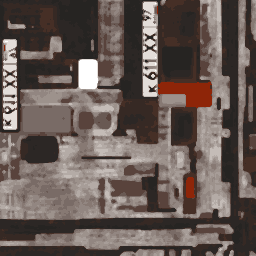
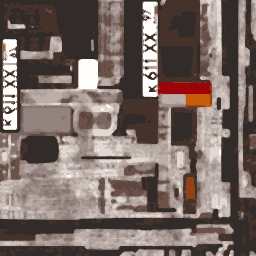
Проба машин: ярче, как машины города — краска без приглушения, складки не темнее 0,8, детали светлее, глубина города на машине втрое слабее, износ потока мягче; «Копейка» выключена (вышла плохо, ждёт модель получше)

diff --git a/src/game/realcar.js b/src/game/realcar.js
@@ -44,7 +44,7 @@ export const MODELS = {
   },
   /* «Копейка» — «VAZ 2101», Javkal, CC-BY-4.0: https://sketchfab.com/3d-models/vaz-2101-95d34f63b5b14e2197fd41383776e031
      Модель в 1,13 раза крупнее настоящей — k меньше; салона нет — всё своё, как у «Семёрки» × 1,12 и ближе к стеклу на 0,1 м */
-  kopeyka: {
+  kopeyka_off: {                                 // выключена (автор 13.10: «копейка оч плохо вышла») — id не совпадает с машиной игры
     dir: 'vaz2101', k: 1.06,
     eye: [0.4, 1.33, 0.37],
     sw: { C: [0.4, 1.0, 0.74], R: 0.19, tilt: -0.5, turn: 2.2 },
@@ -311,6 +311,7 @@ function bodyShader (mat, U, paint, traffic) {
   mat.onBeforeCompile = sh => {
     if (!traffic) dirtInject(sh);                   // грязь и снег — своей машине (считаются от неё); у потока — износ uWear
     sh.uniforms.uWear = U.wear || { value: 0 };
+    sh.uniforms.uGrit = { value: { x: 0.35, y: 0 } };   // глубина города (grit.js) на машине — втрое слабее: не сереет
     sh.uniforms.uPaint = U.paint;
     sh.uniforms.uBlood = U.blood;
     sh.vertexShader = 'varying vec3 vBLoc;\n' + sh.vertexShader.replace('#include <project_vertex>', '#include <project_vertex>\nvBLoc = transformed;');
@@ -336,8 +337,8 @@ float bH (vec3 p) { p = fract(p * 0.3183099 + 0.1); p *= 17.0; return fract(p.x 
   diffuseColor.rgb = mix(diffuseColor.rgb, vec3(0.32, 0.015, 0.02), bl * 0.92);
   // износ (машины потока): ржавые пятна крупным пикселем, чем старше — тем больше; краска тусклее
   float wn = bH(floor(vBLoc * 7.0)) * 0.6 + bH(floor(vBLoc * 2.0) + 3.0) * 0.4;
-  diffuseColor.rgb = mix(diffuseColor.rgb, diffuseColor.rgb * vec3(0.62, 0.45, 0.33), uWear * smoothstep(0.62 - uWear * 0.3, 0.9, wn));
-  diffuseColor.rgb *= 1.0 - uWear * 0.18;
+  diffuseColor.rgb = mix(diffuseColor.rgb, diffuseColor.rgb * vec3(0.7, 0.52, 0.38), uWear * 0.8 * smoothstep(0.68 - uWear * 0.25, 0.92, wn));
+  diffuseColor.rgb *= 1.0 - uWear * 0.06;
 }`);
   };
   // ключ — свой у каждой машины: three вызывает onBeforeCompile только для новой программы, и вторая машина
@@ -525,7 +526,7 @@ export const has = id => REAL.on && !!MODELS[id];
    Облегчённая модель (tools/realcar.mjs … lite): без салона, ~1,5—2,5 тыс. треугольников, колёса не крутятся;
    у каждой машины — свой цвет, свой износ (ржавчина пятнами, тусклее), своя сетка (мнётся, как твоя: dent),
    стёкла трескаются с GLASS_HIT.CRACK м/с и бьются с GLASS_HIT.BREAK */
-export const TRAFFIC = { MODELS: ['semerka', 'kopeyka'], SHARE: 0.5, WEAR: [0, 1] };
+export const TRAFFIC = { MODELS: ['semerka'], SHARE: 0.5, WEAR: [0, 0.8] };   // «Копейка» — вышла плохо (автор 13.10), ждёт модель получше
 const GLASS_HIT = { CRACK: 9, BREAK: 15 };
 const LITE = {};
 export function preloadTraffic (onReady) {
@@ -625,8 +626,8 @@ export function paint (car, hex) {
   const R = car && car.userData.real;
   if (R) dull(R.paint.value.set(hex));
 }
-/* краска чуть тусклее заводской (автор 13.10: «цвета чуть тусклее, не такие яркие»): к серому на DULL.GRAY, темнее ×DULL.DARK */
-const DULL = { GRAY: 0.22, DARK: 0.88 };
+/* краска: к серому на DULL.GRAY, темнее ×DULL.DARK (13.10: сперва «тусклее», потом «ярче, как другие машины» — почти без приглушения) */
+const DULL = { GRAY: 0.04, DARK: 1.0 };   // было 0,22 / 0,88 — серые рядом с яркими машинами города (автор 13.10: «ярче»)
 function dull (c) {
   const g = c.r * 0.3 + c.g * 0.59 + c.b * 0.11;
   return c.lerp(new THREE.Color(g, g, g), DULL.GRAY).multiplyScalar(DULL.DARK);
